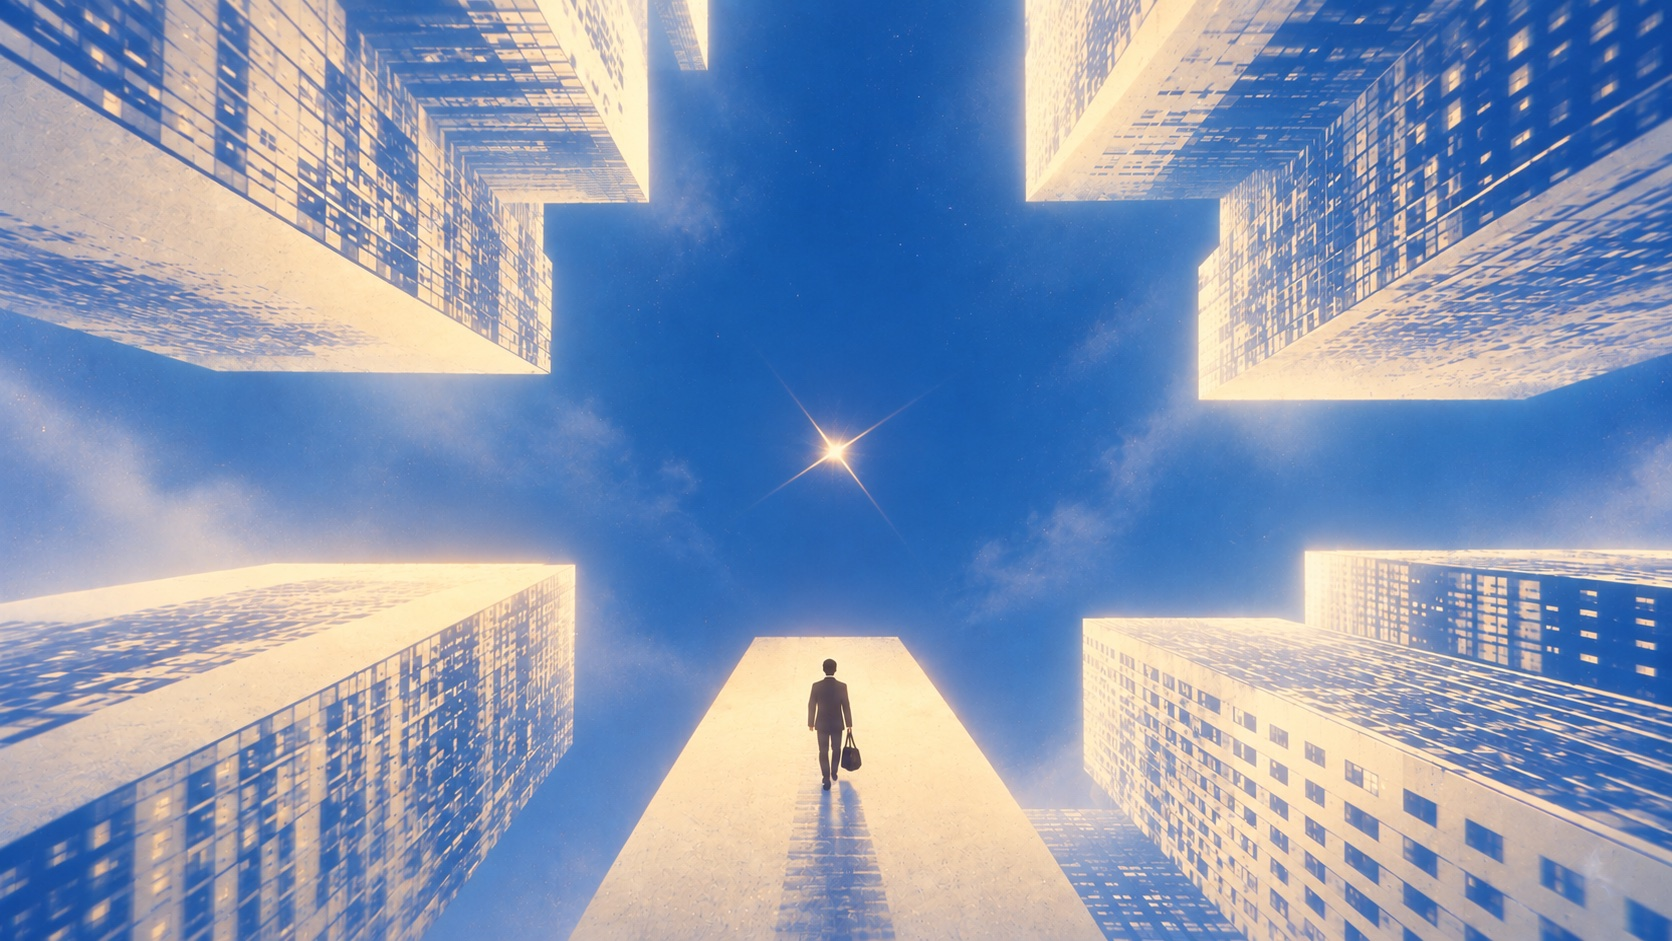
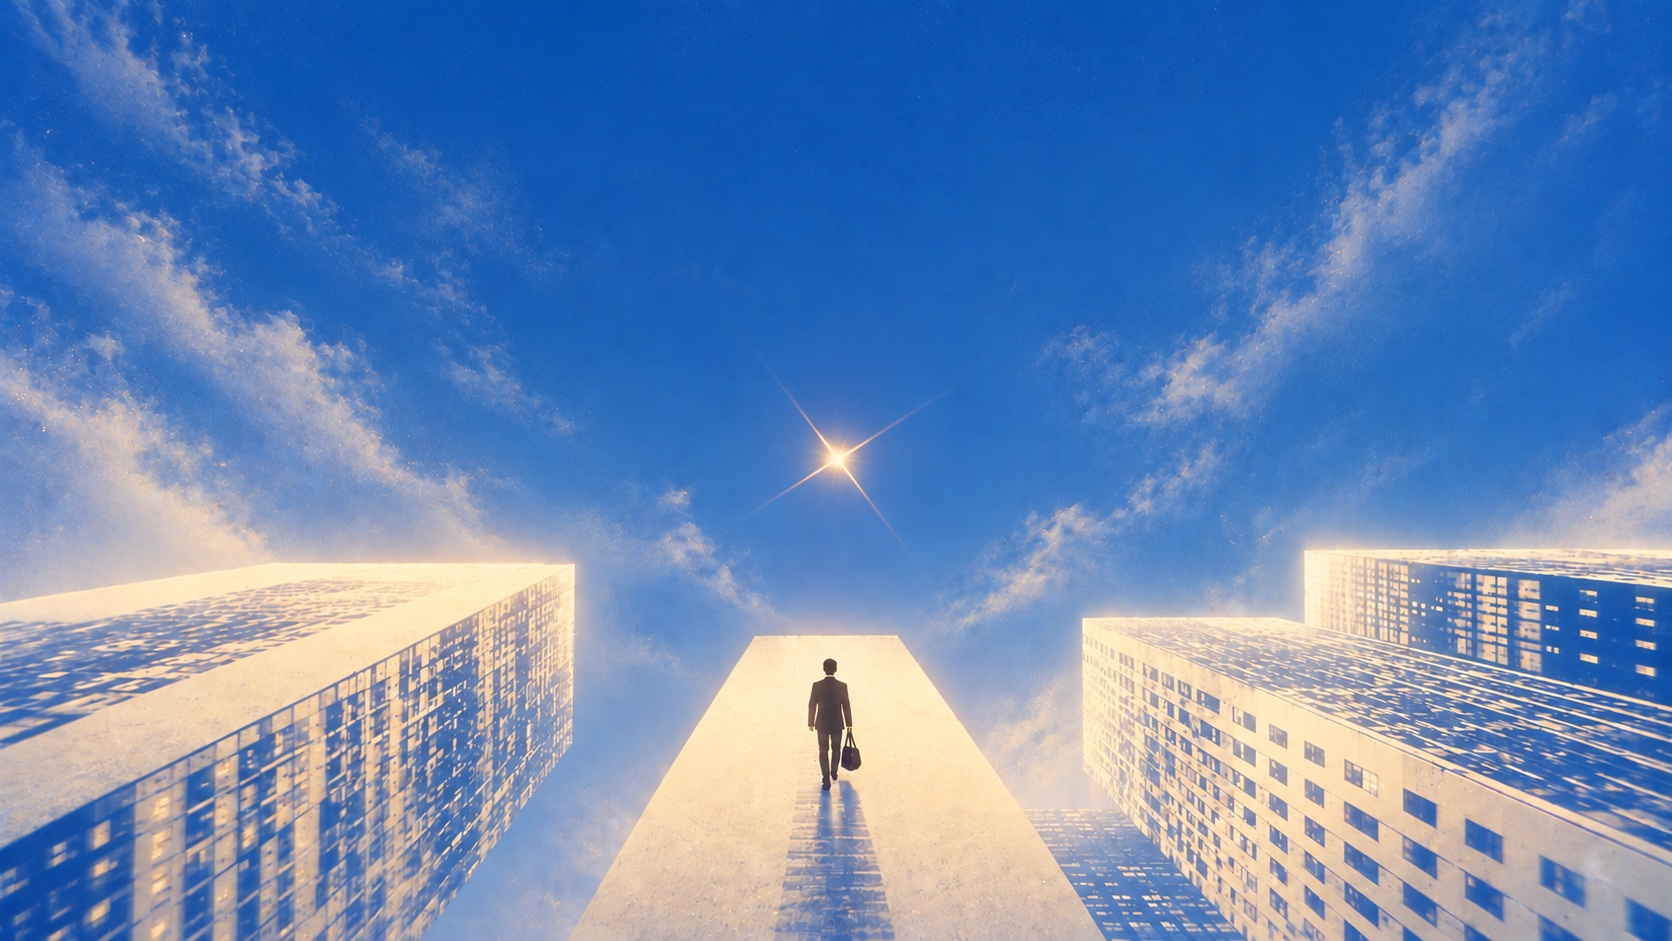
Footer: sky version of the illustration, framed so the star shows with space above

diff --git a/about/index.html b/about/index.html
@@ -493,7 +493,7 @@ kbd{font-family:inherit}
 @media (min-width:640px){.banner .h2{margin-bottom:2.5rem;padding-top:1rem}}
 @media (max-width:639px){.banner{background-position:center 30%;padding:3.5rem 1.5rem 16rem}}
 footer{position:relative;overflow:hidden;isolation:isolate;display:flex;flex-direction:column;justify-content:flex-end;min-height:min(65vh,44rem);padding:6rem 0 1.5rem;background:#091e5c;color:#fff}
-.foot-bg{position:absolute;left:0;right:0;bottom:0;z-index:-2;width:100%;height:192%;object-fit:cover;object-position:center bottom;user-select:none;pointer-events:none}
+.foot-bg{position:absolute;left:0;right:0;bottom:0;z-index:-2;width:100%;height:154%;object-fit:cover;object-position:center bottom;user-select:none;pointer-events:none}
 .foot-bg-fade{position:absolute;inset:0;z-index:-1;pointer-events:none;background:linear-gradient(180deg,rgba(9,30,92,0) 0%,rgba(9,30,92,.14) 35%,rgba(9,30,92,.6) 62%,rgba(9,30,92,.9) 82%,#091e5c 100%)}
 @media (min-width:640px){footer{padding:4rem 0}}
 @media (min-width:1280px){footer{padding:6rem 0}}

diff --git a/book/index.html b/book/index.html
@@ -492,7 +492,7 @@ kbd{font-family:inherit}
 @media (min-width:640px){.banner .h2{margin-bottom:2.5rem;padding-top:1rem}}
 @media (max-width:639px){.banner{background-position:center 30%;padding:3.5rem 1.5rem 16rem}}
 footer{position:relative;overflow:hidden;isolation:isolate;display:flex;flex-direction:column;justify-content:flex-end;min-height:min(65vh,44rem);padding:6rem 0 1.5rem;background:#091e5c;color:#fff}
-.foot-bg{position:absolute;left:0;right:0;bottom:0;z-index:-2;width:100%;height:192%;object-fit:cover;object-position:center bottom;user-select:none;pointer-events:none}
+.foot-bg{position:absolute;left:0;right:0;bottom:0;z-index:-2;width:100%;height:154%;object-fit:cover;object-position:center bottom;user-select:none;pointer-events:none}
 .foot-bg-fade{position:absolute;inset:0;z-index:-1;pointer-events:none;background:linear-gradient(180deg,rgba(9,30,92,0) 0%,rgba(9,30,92,.14) 35%,rgba(9,30,92,.6) 62%,rgba(9,30,92,.9) 82%,#091e5c 100%)}
 @media (min-width:640px){footer{padding:4rem 0}}
 @media (min-width:1280px){footer{padding:6rem 0}}

diff --git a/contact/index.html b/contact/index.html
@@ -492,7 +492,7 @@ kbd{font-family:inherit}
 @media (min-width:640px){.banner .h2{margin-bottom:2.5rem;padding-top:1rem}}
 @media (max-width:639px){.banner{background-position:center 30%;padding:3.5rem 1.5rem 16rem}}
 footer{position:relative;overflow:hidden;isolation:isolate;display:flex;flex-direction:column;justify-content:flex-end;min-height:min(65vh,44rem);padding:6rem 0 1.5rem;background:#091e5c;color:#fff}
-.foot-bg{position:absolute;left:0;right:0;bottom:0;z-index:-2;width:100%;height:192%;object-fit:cover;object-position:center bottom;user-select:none;pointer-events:none}
+.foot-bg{position:absolute;left:0;right:0;bottom:0;z-index:-2;width:100%;height:154%;object-fit:cover;object-position:center bottom;user-select:none;pointer-events:none}
 .foot-bg-fade{position:absolute;inset:0;z-index:-1;pointer-events:none;background:linear-gradient(180deg,rgba(9,30,92,0) 0%,rgba(9,30,92,.14) 35%,rgba(9,30,92,.6) 62%,rgba(9,30,92,.9) 82%,#091e5c 100%)}
 @media (min-width:640px){footer{padding:4rem 0}}
 @media (min-width:1280px){footer{padding:6rem 0}}

diff --git a/index.html b/index.html
@@ -492,7 +492,7 @@ kbd{font-family:inherit}
 @media (min-width:640px){.banner .h2{margin-bottom:2.5rem;padding-top:1rem}}
 @media (max-width:639px){.banner{background-position:center 30%;padding:3.5rem 1.5rem 16rem}}
 footer{position:relative;overflow:hidden;isolation:isolate;display:flex;flex-direction:column;justify-content:flex-end;min-height:min(65vh,44rem);padding:6rem 0 1.5rem;background:#091e5c;color:#fff}
-.foot-bg{position:absolute;left:0;right:0;bottom:0;z-index:-2;width:100%;height:192%;object-fit:cover;object-position:center bottom;user-select:none;pointer-events:none}
+.foot-bg{position:absolute;left:0;right:0;bottom:0;z-index:-2;width:100%;height:154%;object-fit:cover;object-position:center bottom;user-select:none;pointer-events:none}
 .foot-bg-fade{position:absolute;inset:0;z-index:-1;pointer-events:none;background:linear-gradient(180deg,rgba(9,30,92,0) 0%,rgba(9,30,92,.14) 35%,rgba(9,30,92,.6) 62%,rgba(9,30,92,.9) 82%,#091e5c 100%)}
 @media (min-width:640px){footer{padding:4rem 0}}
 @media (min-width:1280px){footer{padding:6rem 0}}
